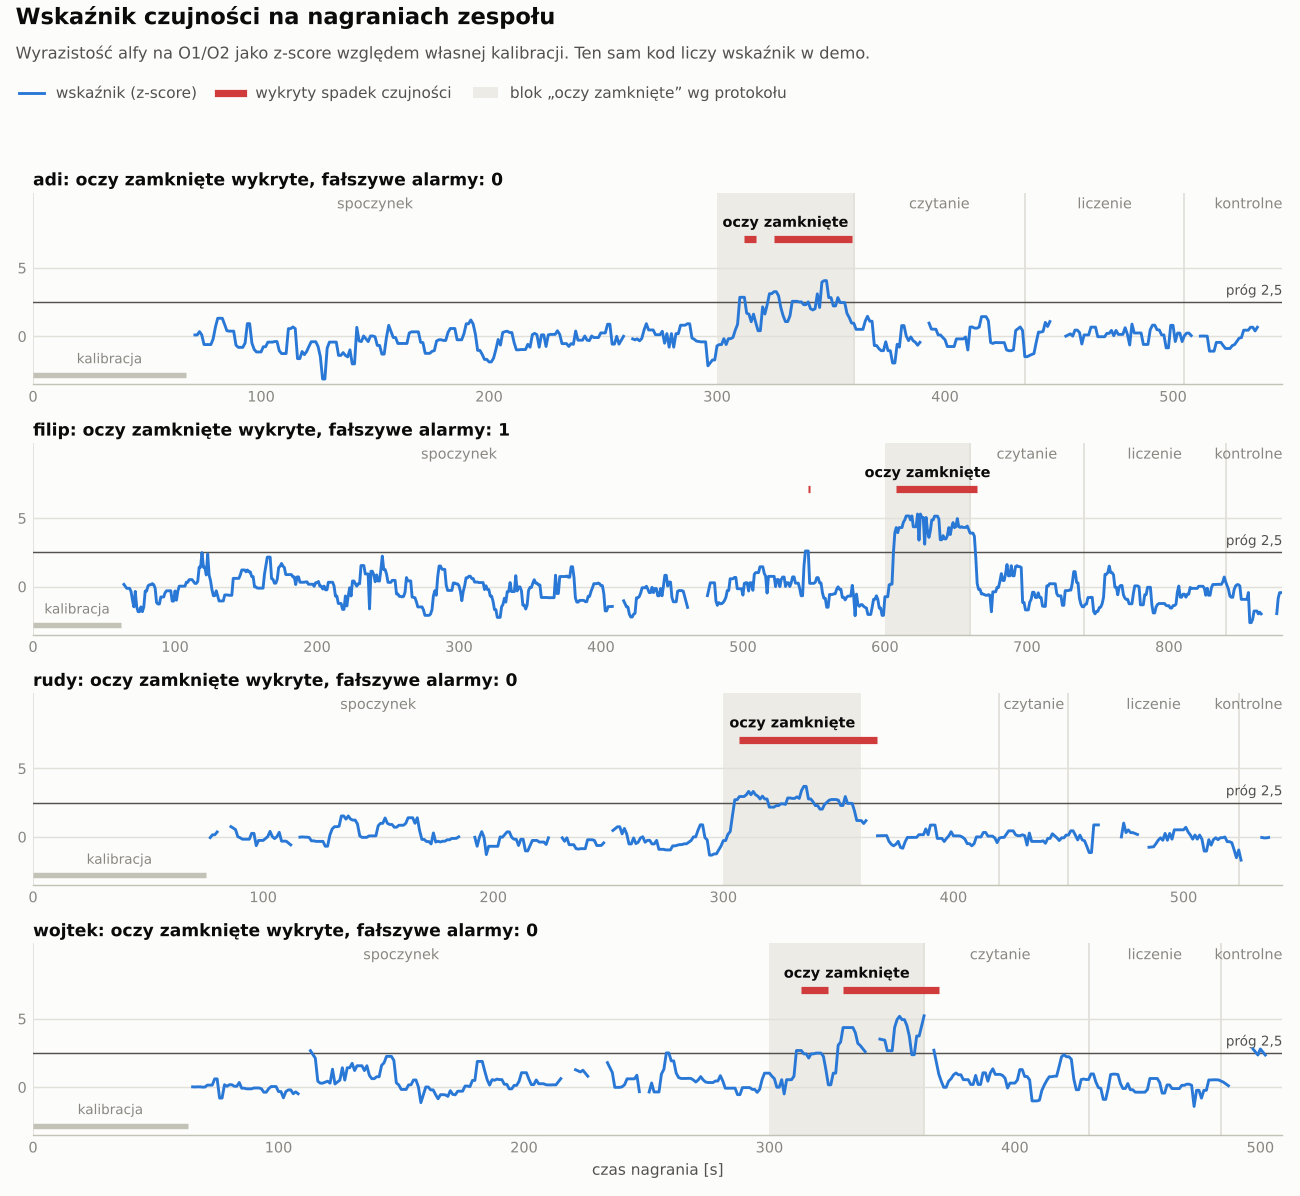
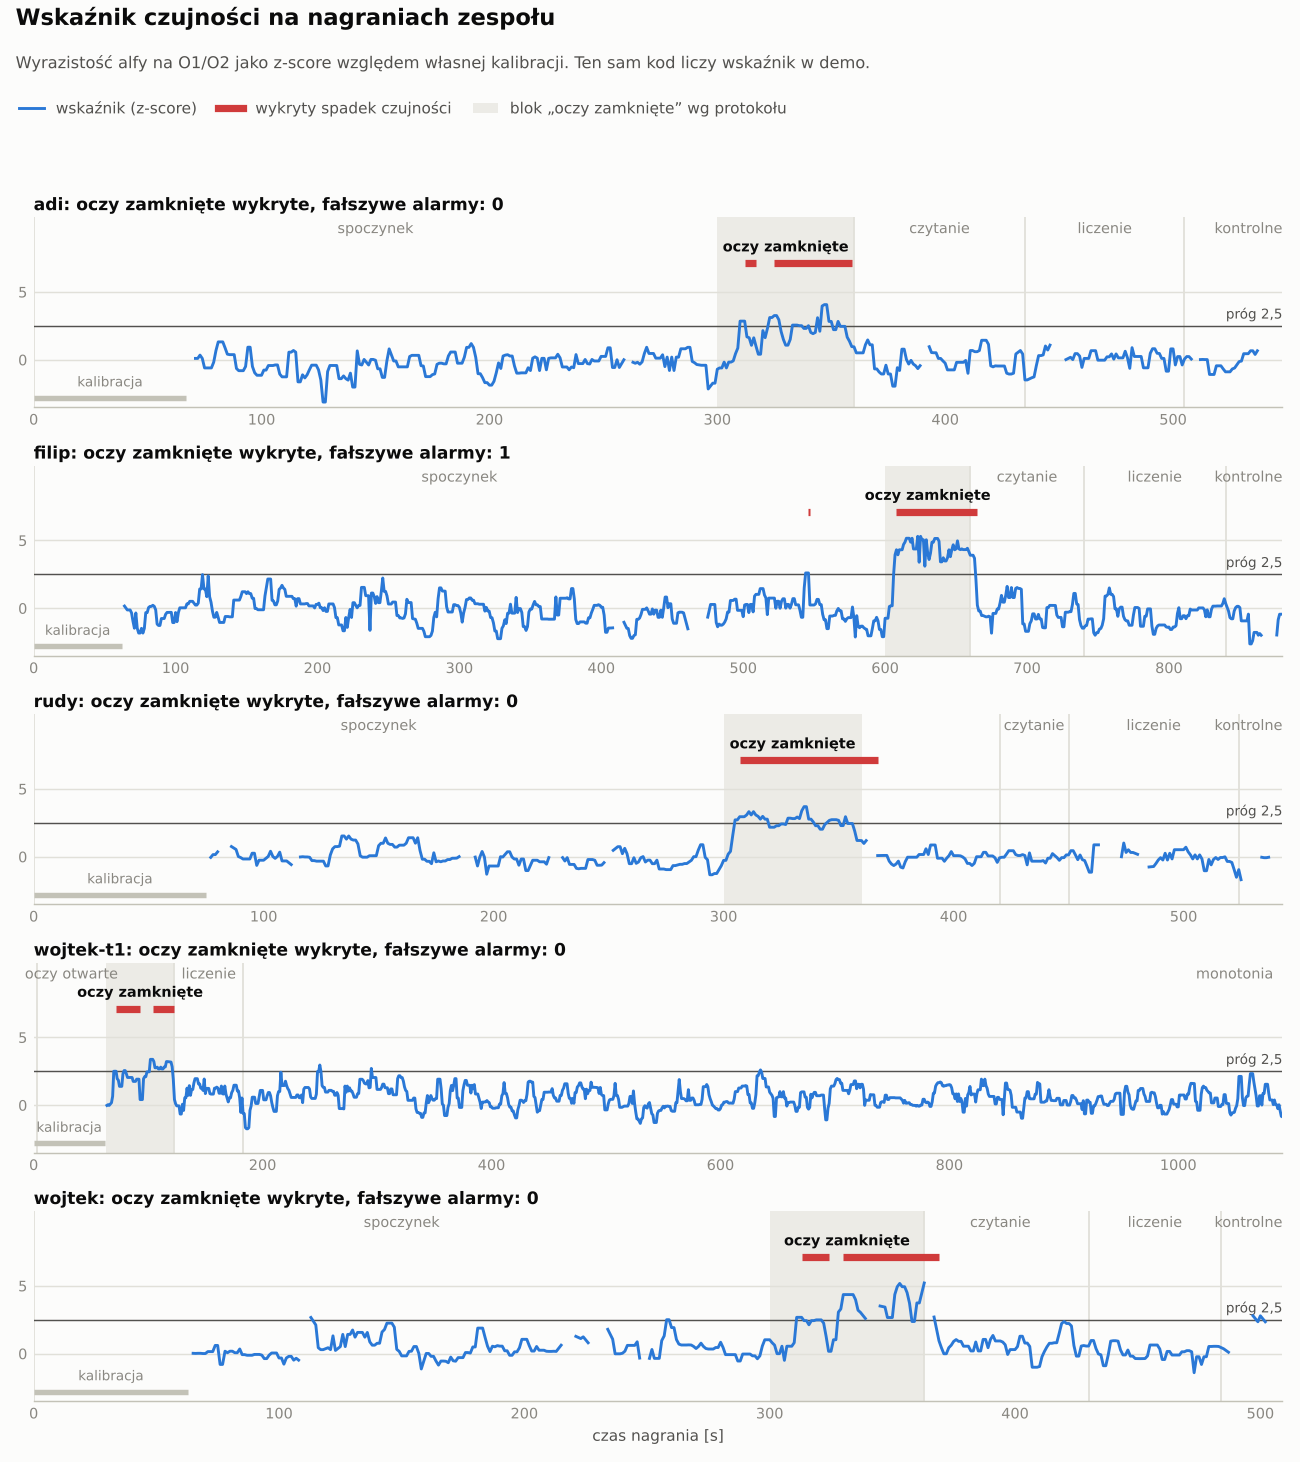
Report events and probes on the recordings and update the demo script
Claude-Session: https://claude.ai/code/session_01KNE5v5JwF24TUUsfXhuNy9

diff --git a/experiments/validate-on-recordings.py b/experiments/validate-on-recordings.py
@@ -25,6 +25,7 @@ BLOCK_NAMES = {
     "reading": "czytanie",
     "math": "liczenie",
     "control": "kontrolne",
+    "monotony": "monotonia",
 }
 
 
@@ -69,9 +70,15 @@ def evaluate(name: str, path: Path, cfg: Config) -> dict:
     eyes_closed_share = (
         100.0 * np.mean([r["lapse_kind"] == "eyes_closed" for r in lapse_in_block]) if lapse_in_block else float("nan")
     )
-    probe_times = [r["t"] for r in calibrated if r["probe"]]
-    probes_outside = [t for t in probe_times if not target.onset - 10 <= t <= target.end]
-    probes_before_lapse = [t for t in probe_times if target.onset <= t <= (hits[0] if hits else target.end)]
+    # Issues #11 and #14: one event per block, "stop" ends soon after the block, probe after the event only.
+    events_in_block = [r["t"] for r in calibrated if r["new_lapse"] and target.onset <= r["t"] <= target.end]
+    stop_after = [r["t"] for r in calibrated if r["state"] == "stop" and target.end < r["t"] <= target.end + 60]
+    probes = [r for r in calibrated if r["probe"]]
+    event_times = [r["t"] for r in calibrated if r["new_lapse"]]
+    probe_after_block = next((r["t"] for r in probes if target.end <= r["t"] <= target.end + 40), None)
+    probes_without_event = [
+        r["t"] for r in probes if r["probe_reason"] != "event" or not any(0 < r["t"] - e <= 90 for e in event_times)
+    ]
 
     return {
         "name": name,
@@ -87,8 +94,10 @@ def evaluate(name: str, path: Path, cfg: Config) -> dict:
         "false_time_pct": 100.0 * np.mean([r["lapse"] for r in outside]) if outside else float("nan"),
         "outside_minutes": outside_minutes,
         "eyes_closed_share": eyes_closed_share,
-        "probes_outside_per_10min": len(probes_outside) / outside_minutes * 10.0 if outside_minutes else float("nan"),
-        "probe_before_lapse": bool(probes_before_lapse),
+        "events_in_block": len(events_in_block),
+        "stop_ends_after_s": (max(stop_after) - target.end) if stop_after else 0.0,
+        "probe_after_block_s": None if probe_after_block is None else probe_after_block - target.end,
+        "probes_without_event": len(probes_without_event),
         "auc": auc(
             [r["fast"] for r in inside if r["fast"] is not None],
             [r["fast"] for r in outside if r["fast"] is not None],
@@ -123,12 +132,13 @@ def print_table(rows: list[dict]) -> None:
     print(f"Razem: wykryto {detected} z {len(rows)} bloków, {alarms_text} "
           f"w {pl(minutes, 0)} min poza blokiem (po kalibracji).")
     print()
-    print("| Osoba | Spadek w bloku oznaczony jako „oczy zamknięte” | Próba reakcji przed alarmem w bloku | "
-          "Próby reakcji poza blokiem |")
-    print("|---|---|---|---|")
+    print("| Osoba | Spadek w bloku oznaczony jako „oczy zamknięte” | Zdarzenia w bloku | „Stop” trwa po bloku | "
+          "Próba reakcji po bloku | Próby bez wcześniejszego zdarzenia |")
+    print("|---|---|---|---|---|---|")
     for row in rows:
-        print(f"| {row['name']} | {pl(row['eyes_closed_share'], 0)}% okien | "
-              f"{'tak' if row['probe_before_lapse'] else 'nie'} | {pl(row['probes_outside_per_10min'])} na 10 min |")
+        after = "brak" if row["probe_after_block_s"] is None else f"po {pl(row['probe_after_block_s'], 0)} s"
+        print(f"| {row['name']} | {pl(row['eyes_closed_share'], 0)}% okien | {row['events_in_block']} | "
+              f"{pl(row['stop_ends_after_s'], 0)} s | {after} | {row['probes_without_event']} |")
 
 
 def save_figure(rows: list[dict], cfg: Config, path: Path) -> None:

diff --git a/docs/trafnosc-na-nagraniach.md b/docs/trafnosc-na-nagraniach.md
@@ -1,6 +1,7 @@
 # Trafność pipeline'u na nagraniach zespołu
 
-Stan na 14.11.2026. To wynik skryptu `experiments/validate-on-recordings.py` na czterech nagraniach z `data/recordings/`.
+Stan na 14.11.2026, noc. To wynik skryptu `experiments/validate-on-recordings.py` na pięciu nagraniach z `data/recordings/`
+(cztery z południa i sesja monotonii Wojtka `wojtek-t1`).
 
 ## Co sprawdzamy
 
@@ -16,9 +17,10 @@ Stan na 14.11.2026. To wynik skryptu `experiments/validate-on-recordings.py` na 
 | adi | 10,1% | tak | 12 s | 69% | 0 w 7,0 min | 0,0% | 0,93 |
 | filip | 3,2% | tak | 8 s | 90% | 1 w 12,6 min | 0,8% | 0,97 |
 | rudy | 15,3% | tak | 7 s | 92% | 0 w 5,8 min | 0,0% | 0,99 |
+| wojtek-t1 | 0,7% | tak | 9 s | 71% | 0 w 16,0 min | 0,0% | 0,88 |
 | wojtek | 10,8% | tak | 13 s | 74% | 0 w 6,3 min | 1,3% | 0,89 |
 
-Razem: wykryto 4 z 4 bloków, 1 fałszywy alarm w 32 min poza blokiem (po kalibracji).
+Razem: wykryto 5 z 5 bloków, 1 fałszywy alarm w 48 min poza blokiem (po kalibracji).
 
 ![Wskaźnik czujności w czasie dla czterech nagrań](img/trafnosc-na-nagraniach.png)
 
@@ -41,7 +43,7 @@ Kolumny:
   Prawdziwa senność daje słabsze zmiany. To uzupełni wykres z danych publicznych (zadanie B2).
 - **Wskaźnik wolny i rezerwa nie są tu sprawdzane.** Ich parametry są założeniami.
 
-## Stan oczu i próby reakcji (zadania A7, A8)
+## Stan oczu, zdarzenia i próby reakcji (zadania A7, A8, issues #11, #14)
 
 Kamera w aucie sprawdza, czy oczy są zamknięte. Żeby odróżnić to od senności przy otwartych oczach, pipeline liczy
 mrugnięcia na F3/F4 (przy referencji Fp1 mrugnięcie to krótkie, duże wychylenie). Spadek czujności bez mrugnięć jest
@@ -57,12 +59,13 @@ Poprawione 14.11 wieczorem: wcześniejsza wersja liczyła część mrugnięć po
 | rudy | 12 | 0 | 6 | 25 |
 | wojtek | 11 | 10 | 1 | 0 |
 
-| Osoba | Spadek w bloku oznaczony jako „oczy zamknięte” | Próba reakcji przed alarmem w bloku | Próby reakcji poza blokiem |
-|---|---|---|---|
-| adi | 100% okien | tak | 0,0 na 10 min |
-| filip | 100% okien | tak | 3,2 na 10 min |
-| rudy | 100% okien | tak | 1,7 na 10 min |
-| wojtek | 43% okien | tak | 8,0 na 10 min |
+| Osoba | Spadek w bloku oznaczony jako „oczy zamknięte” | Zdarzenia w bloku | „Stop” trwa po bloku | Próba reakcji po bloku | Próby bez wcześniejszego zdarzenia |
+|---|---|---|---|---|---|
+| adi | 100% okien | 1 | 0 s | po 12 s | 0 |
+| filip | 100% okien | 1 | 5 s | po 18 s | 0 |
+| rudy | 100% okien | 1 | 7 s | po 20 s | 0 |
+| wojtek-t1 | 90% okien | 1 | 0 s | po 13 s | 0 |
+| wojtek | 43% okien | 1 | 6 s | po 19 s | 0 |
 
 Jak to czytać:
 
@@ -73,10 +76,14 @@ Jak to czytać:
   do oceny stanu oczu. Liczą się tylko razem ze wzrostem alfy.
 - **Senności przy otwartych oczach nie da się tu sprawdzić**, bo nikt w tych nagraniach nie był senny. Dowody na nią pochodzą
   z danych publicznych (notebooki 04 i 05) i literatury (`podstawy-naukowe.md`). Własne dane mają dać nocne punkty pomiarowe (C4).
-- **Próba reakcji pojawia się przed alarmem u wszystkich czterech osób**, czyli gdy wskaźnik dopiero rośnie. Ceną są próby poza
-  blokiem: od 0 do 8 na 10 minut, najwięcej przy najbardziej zaszumionym sygnale (Wojtek). Wyższy próg próby (1,8 lub 2,0
-  zamiast 1,5) zmniejsza ich liczbę, ale u Wojtka próba przestaje wyprzedzać alarm. Ustawienie do dostrojenia na większej
-  liczbie nagrań.
+- **Jedno zamknięcie oczu to jedno zdarzenie** (issue #11): krótkie spadki alfy w środku bloku (6–11 s) nie dzielą go już na dwa.
+  „Stop” trwa najwyżej 7 s po otwarciu oczu, potem stan wraca do „uwaga”.
+- **Próba reakcji pojawia się po każdym bloku zamkniętych oczu, 12–20 s po otwarciu oczu, i nigdy bez wcześniejszego
+  zdarzenia** (issue #14). Wcześniejsza wersja wywoływała próbę z podprogowego wzrostu alfy: do 8 prób na 10 minut poza blokiem
+  i 11 w 15 minut monotonii Wojtka. Notebook 06 pokazał, że taki sygnał nie wyprzedza lapsów (AUC 0,52), więc go usunęliśmy.
+  Do tego dochodzi próba z harmonogramu co 20 min (założenie, do dostrojenia w B8).
+- Próba jest zaliczona względem osobistej normy: po trzech zaliczonych próbach progiem jest 1,5 × własna mediana czasu reakcji,
+  wcześniej 355 ms (PVT-B).
 - Czasu reakcji nie da się sprawdzić na nagraniach: próba wymaga człowieka przed ekranem.
 
 ## Jak odtworzyć

diff --git a/docs/zadania.md b/docs/zadania.md
@@ -41,7 +41,7 @@ Pliki wspólne (zmiany małe i celowe): `README.md`, `AGENTS.md`, `.gitignore`, 
 | A5 | SHOULD | Narzędzie punktu pomiarowego: odlicza kroki, zapisuje znaczniki i KSS | `src/wachta/session.py` | zapisuje adnotacje i wiersz w `checkpoints.csv` w formatach z sekcji „Kontrakty” | zrobione: `feat/checkpoint-session` |
 | A6 | COULD | Prognoza czasu do progu, test czasu reakcji w przeglądarce, krzywe z Garmin Connect | `src/wachta/pvt.py`, `src/wachta/pvt.html` (`minutes_to_warn` / `minutes_to_stop` w `src/wachta/index.py`) | test PVT-B działa w przeglądarce i zapisuje wynik do `data/recordings/pvt.csv` | zrobione: `feat/pvt-test` (PVT-B + prognoza w `index.py`; odczyty Garmin w `checkpoints.csv`) |
 | A7 | MUST | Stan oczu z EEG: mrugnięcia na F3/F4, rozdzielenie spadku czujności na „oczy zamknięte” i „senność przy otwartych oczach” | `src/wachta/blinks.py`, `src/wachta/index.py`, dashboard | na nagraniach zespołu blok `eyes_closed` jest klasyfikowany jako „oczy zamknięte”; tabela w `docs/trafnosc-na-nagraniach.md` | zrobione |
-| A8 | MUST | Próba reakcji wywoływana przez EEG: gdy wskaźnik zbliża się do progu, dashboard prosi o reakcję; > 355 ms albo brak = potwierdzony spadek | `src/wachta/index.py`, `src/wachta/server.py`, `src/wachta/web/` | próba pojawia się przy rosnącym wskaźniku i ręcznie, czas reakcji wpływa na stan i rezerwę | zrobione |
+| A8 | MUST | Próba reakcji po zdarzeniu ostrym i z harmonogramu (issue #14; wcześniej z podprogowego wzrostu alfy, usunięte po notebooku 06); brak reakcji albo wolniej niż osobista norma = niezaliczona próba | `src/wachta/index.py`, `src/wachta/server.py`, `src/wachta/web/` | próba pojawia się przy rosnącym wskaźniku i ręcznie, czas reakcji wpływa na stan i rezerwę | zrobione |
 | A9 | SHOULD | Kontekst w rezerwie: czas od przebudzenia, pora doby (model dwuprocesowy, uproszczony) | `src/wachta/config.py`, `src/wachta/index.py`, `--wake`, `--clock` | rezerwa spada szybciej w nocy i po długim czuwaniu; parametry opisane jako założenia | zrobione |
 
 ## B. Dane i dowody

diff --git a/docs/pitch.md b/docs/pitch.md
@@ -66,7 +66,7 @@ zamknięte oczy i „przerwa teraz”, brak reakcji przy otwartych oczach, zmien
 
 | Liczba | Źródło |
 |---|---|
-| Zamknięte oczy wykryte u 4 z 4 osób, 1 fałszywy alarm w 32 min | [`trafnosc-na-nagraniach.md`](trafnosc-na-nagraniach.md), wykres `img/trafnosc-na-nagraniach.png` |
+| Zamknięte oczy wykryte w 5 z 5 nagrań (4 osoby), 1 fałszywy alarm w 48 min | [`trafnosc-na-nagraniach.md`](trafnosc-na-nagraniach.md), wykres `img/trafnosc-na-nagraniach.png` |
 | Senność w danych publicznych: alfa rośnie u 11 z 11 osób, AUC 0,75 (0,52–0,91) | notebook 04, wykres `img/drowsiness-public-auc-and-calibration.png` |
 | Model osobisty: trafność 0,83 (AUC 0,90) wobec 0,66–0,72 dla jednego modelu dla wszystkich | notebook 04, tabela strategii |
 | Kontekst (czas jazdy, pora doby) podnosi AUC z 0,76 do 0,88 | Lu i in. 2022, `podstawy-naukowe.md` poz. 3 |
